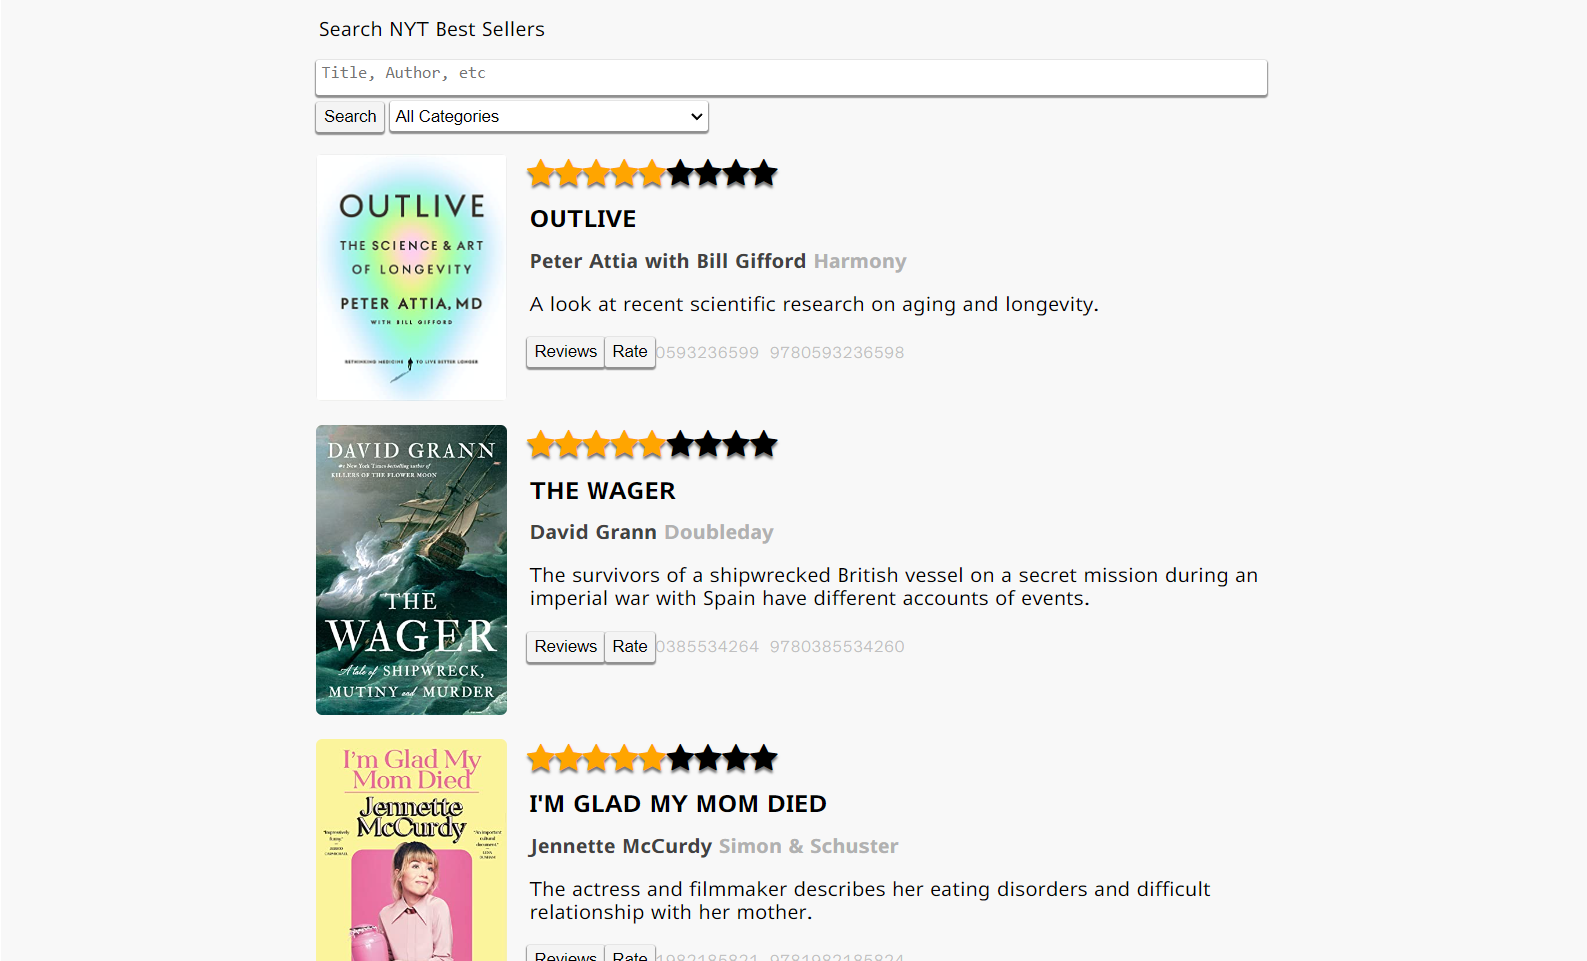
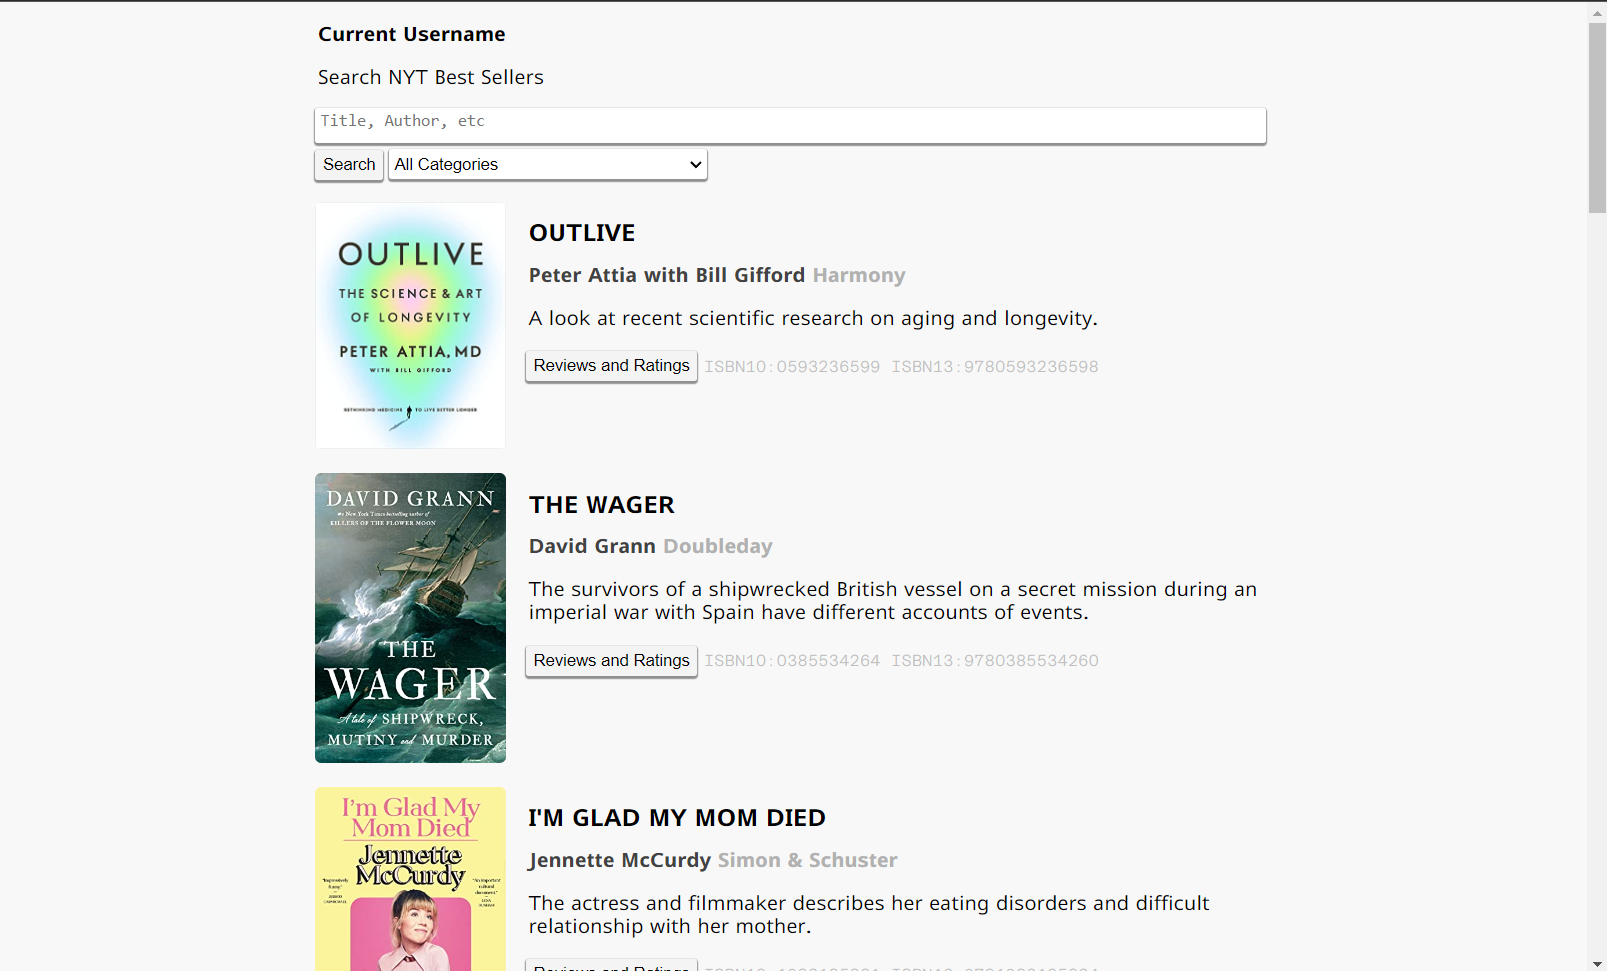
Search Added
It works for the most part, just a bit buggy as of right now.

diff --git a/api/frontend/main.html b/api/frontend/main.html
@@ -18,7 +18,7 @@
             margin: 0%;
             font-family: 'Azeret Mono', monospace;
             font-family: 'Lunasima', sans-serif;
-            background-color: rgb(248, 248, 248);
+            background-color: rgb(243, 243, 243);
         }
 
         div.holder {
@@ -56,10 +56,12 @@
             border: none;
             background-color: rgb(244, 244, 244);
             box-shadow: 0px 1px 1px 1px rgb(144, 144, 144);
+            /* visibility: visible; */
         }
         button:hover {background-color: rgb(227, 227, 227);}
         button:active {background-color: rgb(243, 243, 243);
             box-shadow: 0px -1px 1px 1px rgb(144, 144, 144);}
+        button:disabled {visibility: hidden;}
 
         textarea {
             width: 99%;
@@ -190,7 +192,8 @@
         }
         .holder.bookholder div img {
             width: 100%;
-            border-radius: 5px;
+            border-radius: 8px;
+            box-shadow: 0px 1px 4px 1px rgb(144, 144, 144, 0.8);
         }
 
         .holder.bookholder .bookinfo {
@@ -259,17 +262,18 @@
             <div id="userreviews" class="holder"></div>
         </div>
         <div class="holder searchbar">
-            <p><span id="currentuser" class="username">Current Username</span></p>
+            <!-- <p><span id="currentuser" class="username">Current Username</span></p> -->
             <p>Search NYT Best Sellers</p>
-            <textarea placeholder="Title, Author, etc"></textarea>
-            <button>Search</button>
+            <textarea id="searchbar" placeholder="Title, Author, ISBN, etc"></textarea>
+            <button id="categorySearchButton" onclick="searchBooks()">Search</button>
             <select name="categories" id="categories">
-                <option value="full-overview">All Categories</option>
-                <option value="overview">Five Top From All Categories</option>
+                <!-- TODO: Allow for all categories. -->
+                <!-- <option value="full-overview">All Categories</option> -->
+                <!-- <option value="overview">Five Top From All Categories</option> -->
                 <option value="combined-print-and-e-book-fiction">Combined Print and E-Book Fiction</option>
                 <option value="combined-print-and-e-book-nonfiction">Combined Print and E-Book Nonfiction</option>
                 <option value="hardcover-fiction">Harcover Fiction</option>
-                <option value="hardcover-nonfiction">Hardcover Nonfiction</option>
+                <option value="hardcover-nonfiction"  selected="selected">Hardcover Nonfiction</option>
                 <option value="trade-fiction-paperback">Trade Fiction Paperback</option>
                 <option value="mass-market-paperback">Mass Market Paperback</option>
                 <option value="paperback-nonfiction">Paperback Nonfiction</option>
@@ -400,6 +404,10 @@
             ----------
             Authentication key is returned
             */
+            
+            document.getElementById("login").disabled = true;
+            setTimeout(function(){document.getElementById("login").disabled = false;},5000);
+
             uname = document.getElementById("unameinput").value;
             pword = document.getElementById("pwordinput").value;
             response = await loginRunner(uname,pword);
@@ -448,6 +456,10 @@
             ----------
             Authentication key is returned
             */
+
+            document.getElementById("signup").disabled = true;
+            setTimeout(function(){document.getElementById("signup").disabled = false;},5000);
+
             uname = document.getElementById("unameinput").value;
             pword = document.getElementById("pwordinput").value;
             response = await signupRunner(uname,pword);
@@ -471,6 +483,33 @@
 
             return "Success"
         }
+
+        // Explore Books Loader
+
+        pageNumber = 0
+        async function searchBooks(){
+            /*
+            Lookup list of books, displays it on user interface.
+
+            Parameters
+            ----------
+            none
+
+            Returns
+            ----------
+            none
+            */
+
+            document.getElementById("categorySearchButton").disabled = true;
+            setTimeout(function(){document.getElementById("categorySearchButton").disabled = false;},1000);
+           
+            categoryToGet = document.getElementById("categories").value;
+            await loadBooks(categoryToGet,0,document.getElementById("searchbar").value)
+            document.getElementById("searchbar").value = '';
+            pageNumber = 0
+
+            // TODO Integrate searchbar that allows for item llokup
+        }        
 
         // Review and Commenting System
 
@@ -499,6 +538,9 @@
         }
 
         async function addReview(){
+            
+            document.getElementById("submitreview").disabled = true;
+            setTimeout(function(){document.getElementById("submitreview").disabled = false;},5000);
             
             reviewAttemptReturn = await addReviewRunner();
             if (reviewAttemptReturn["type"]=="error"){
@@ -729,60 +771,99 @@
             return comments
         }
 
-        const initialLoad = async () => {
+        const loadBooks = async (category, pagenumber, searchterm) => {
+
             
             document.getElementById("bookshelf").innerHTML = `<div class="holder"><h1 class="loading">Loading...</h1></div>`;
-
-            const response = await fetch(urllink+'api/explore/',
-                {
-                    method: 'POST',
-                    body: JSON.stringify(
-                        {
-                            'page_number':0,
-                            'category':'hardcover-nonfiction'
+            if (searchterm.length>4){
+                const response = await fetch(urllink+'api/search/',
+                    {
+                        method: 'POST',
+                        body: JSON.stringify(
+                            {
+                                'searchterm':searchterm
+                            }
+                            ), // string or object
+                        headers: {
+                            'Content-Type': 'application/json',
                         }
-                        ), // string or object
-                    headers: {
-                        'Content-Type': 'application/json',
                     }
+                );
+                const returnedbooks = await response.json(); //extract JSON from the http response
+                console.log(returnedbooks)
+                document.getElementById("bookshelf").innerHTML = ``;
+
+                if (response==undefined){
+                    document.getElementById("bookshelf").innerHTML =`No books found`;
+                    return
                 }
-            );
-            
-            const returnedbooks = await response.json(); //extract JSON from the http response
-            console.log(returnedbooks)
-            document.getElementById("bookshelf").innerHTML = ``;
-            
-            // currentlyviewedbooks = ``;
-            for(index in returnedbooks){
-                book = returnedbooks[index]
-                console.log(book)
-                document.getElementById("bookshelf").innerHTML += createExampleBook(
-                    book["book_image"],
-                    book["amazon_product_url"],
-                    book["title"],
-                    book["author"],
-                    book["publisher"],
-                    book["description"],
-                    book["primary_isbn10"],
-                    book["primary_isbn13"]
-                )
+                
+                // currentlyviewedbooks = ``;
+                for(index in returnedbooks){
+                    book = returnedbooks[index]
+                    console.log(book)
+                    document.getElementById("bookshelf").innerHTML += createExampleBook(
+                        book["book_image"],
+                        book["amazon_product_url"],
+                        book["title"],
+                        book["author"],
+                        book["publisher"],
+                        book["description"],
+                        book["primary_isbn10"],
+                        book["primary_isbn13"]
+                    )
+                }
+            } else {
+                const response = await fetch(urllink+'api/explore/',
+                    {
+                        method: 'POST',
+                        body: JSON.stringify(
+                            {
+                                'page_number':pagenumber,
+                                'category':category
+                            }
+                            ), // string or object
+                        headers: {
+                            'Content-Type': 'application/json',
+                        }
+                    }
+                );
+                const returnedbooks = await response.json(); //extract JSON from the http response
+                console.log(returnedbooks)
+                document.getElementById("bookshelf").innerHTML = ``;
+                
+                // currentlyviewedbooks = ``;
+                for(index in returnedbooks){
+                    book = returnedbooks[index]
+                    console.log(book)
+                    document.getElementById("bookshelf").innerHTML += createExampleBook(
+                        book["book_image"],
+                        book["amazon_product_url"],
+                        book["title"],
+                        book["author"],
+                        book["publisher"],
+                        book["description"],
+                        book["primary_isbn10"],
+                        book["primary_isbn13"]
+                    )
+                }
             }
         }
 
-        async function getExplore(){
-            await initialLoad()
+        async function initPage(){
+            await loadBooks('hardcover-nonfiction',0,'')
         }
 
         // Actually get books
-        getExplore()
+        initPage()
 
+        //Test
+        // document.getElementById("bookshelf").innerHTML = exampleBook + exampleBook + exampleBook + exampleBook + exampleBook + exampleBook + exampleBook + exampleBook;
+        
         // Test if user is logged in already, if so remove login screen
         if (getCookie("uname") != null){
             document.getElementById("loginviewer").style = "visibility: hidden;";
         }
-
-        // document.getElementById("bookshelf").innerHTML = exampleBook + exampleBook + exampleBook + exampleBook + exampleBook + exampleBook + exampleBook + exampleBook;
-        // document.getElementById("userreviews").innerHTML = createReview("Generic Username",3,"Generic reviews",[{"uname":"Name of User","comment":"content of comment posted"},{"uname":"Name of User","comment":"content of comment posted"},{"uname":"Name of User","comment":"content of comment posted"}])
 
         function hidereviews(element){
             document.getElementById('reviewviewer').style = 'visibility: hidden;';
@@ -813,10 +894,15 @@
 
         currentbookisbn = "";
         async function viewreviews(element){
-            //TODO
+            document.getElementById('reviewviewer').style = 'visibility: visible;';
+            
+            // // Check if current ISBN is element id, if so do nothing so as to save bandwidth
+            // if (currentbookisbn==element.id){
+            //     return
+            // }
+
             document.getElementById('userreviews').innerHTML = await populateReviewList(element.id);
 
-            document.getElementById('reviewviewer').style = 'visibility: visible;';
             console.log(element.id);
             currentbookisbn=element.id;
             // document.getElementById('acceptcookies').style = 'visibility: visible;';

diff --git a/api/flask_app.py b/api/flask_app.py
@@ -235,6 +235,62 @@ def bookexists(
 
     return False
 
+def bookexistsfull(
+        term:str
+    ):
+    """
+    Determines if a book exists in our database or not.
+
+    Parameters
+    ----------
+    term (str): search term in string format
+
+    Return
+    ----------
+    Determines if an book exists already on our list
+    """
+
+    if len(term) <5:
+        return jsonify({'type':'error', 'message':'Search term too short.'})
+    elif len(term) >80:
+        return jsonify({'type':'error', 'message':'Search term too long.'})
+    # TODO clean search term
+
+    # Get the database
+    dbname = get_database()
+
+    # Get the collection
+    collection = dbname['books']
+
+    # 
+    bookstosend = []
+
+    # Get the books with isbn
+    books_with_name = collection.find({"title": {'$regex' : '.*' + term + '.*'}})
+    books_with_author = collection.find({"author": {'$regex' : '.*' + term + '.*'}})
+    books_with_isbn = collection.find({"primary_isbn13": {'$regex' : '.*' + term + '.*'}})
+    books_with_desc = collection.find({"description": {'$regex' : '.*' + term + '.*'}})
+    books_with_publisher = collection.find({"publisher": {'$regex' : '.*' + term + '.*'}})
+
+    # Convert the books to a list
+    for i in books_with_name:
+        bookstosend.append(i["fulldata"])
+    for i in books_with_author:
+        bookstosend.append(i["fulldata"])
+    for i in books_with_isbn:
+        bookstosend.append(i["fulldata"])
+    for i in books_with_desc:
+        bookstosend.append(i["fulldata"])
+    for i in books_with_publisher:
+        bookstosend.append(i["fulldata"])
+
+    # TODO remove duplicates
+
+    if len(bookstosend)!=0:
+        return bookstosend
+
+    return jsonify({'type':'error', 'message':'Book not found for search term.'})
+
 def unameexists(
         uname:str = ""
     ):
@@ -676,6 +732,20 @@ def getbook():
     book = bookexists(str(isbn))
     print(book)
     return jsonify(dict(book))
+
+# Search for books in our database
+@app.route('/api/search/', methods=['POST'])
+def search():
+
+    # Get data
+    post_data = request.get_json()
+
+    # page
+    searchterm = post_data['searchterm']
+
+    # Search for books with term 
+    books = bookexistsfull(searchterm)
+    return books
 
 # Rate a book
 @app.route('/api/rate/', methods=['POST'])

diff --git a/README.md b/README.md
@@ -44,6 +44,14 @@ Returns with response relating whether there was a successful login. Additionall
 
 Returns with response relating whether addition of rating occured or not.
 
+**Get Book**
+
+`/api/getbook/`
+
+- `isbn`: ISBN of book we're looking for
+
+Get book information from ISBN from our database.
+
 ## Review
 
 **Rate**
